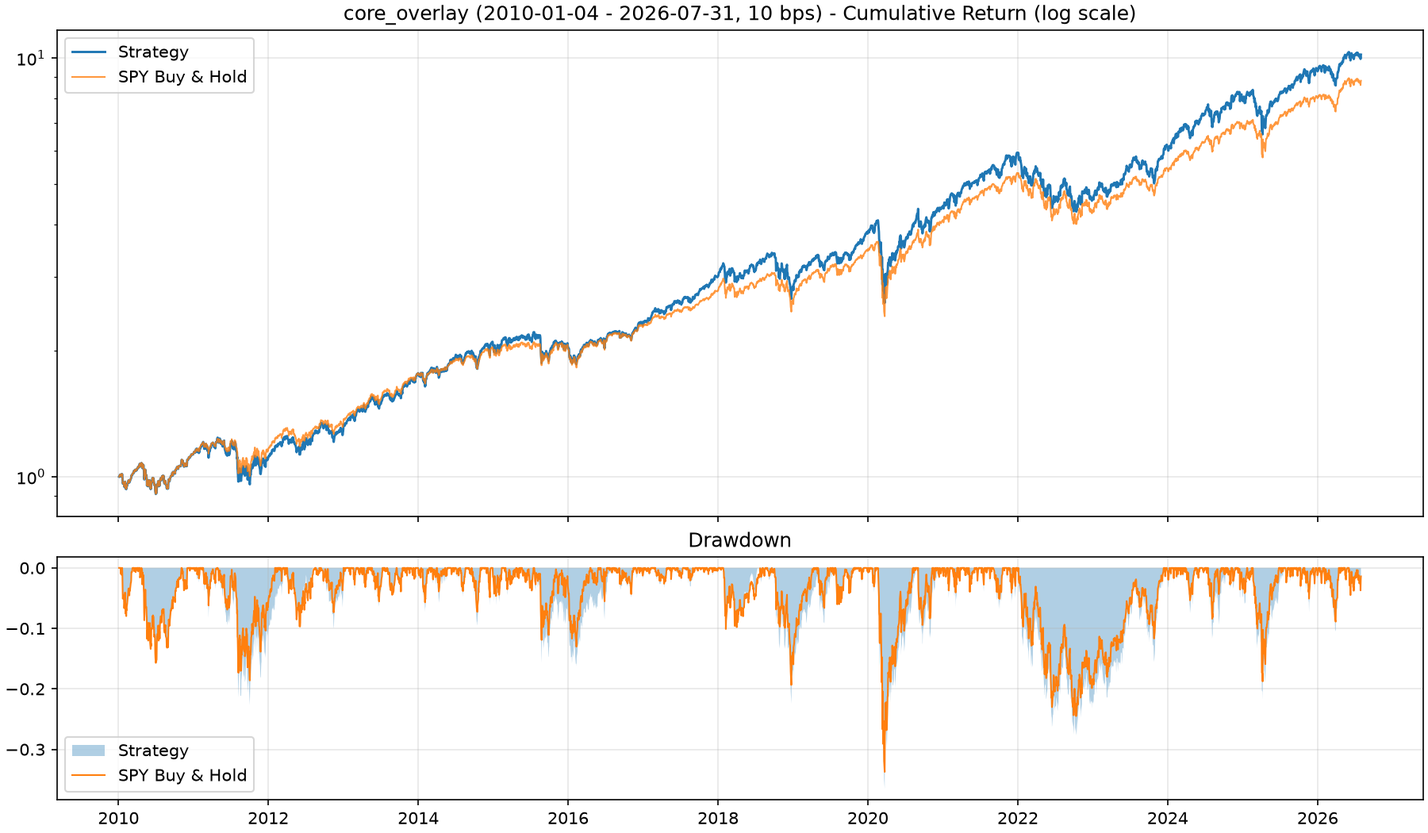
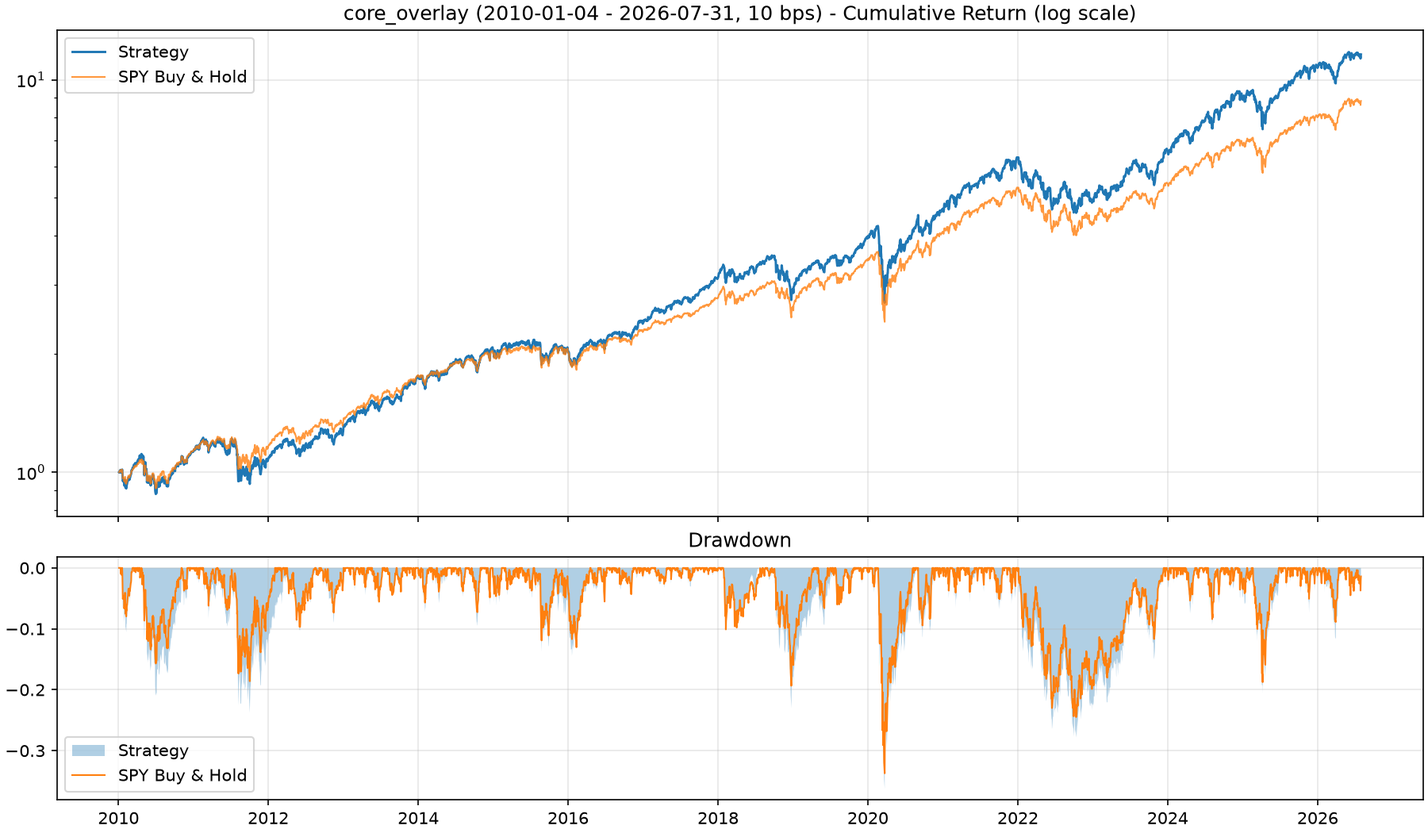
Warm up signals before the backtest window starts.

diff --git a/tests/test_warmup.py b/tests/test_warmup.py
@@ -1,0 +1,103 @@
+"""--start より前のデータをシグナルのウォームアップにだけ使い、損益と成績は --start 以降で計上することを確かめる。"""
+import numpy as np
+import pandas as pd
+import pytest
+
+import main
+from src.allocators.defensive_multi import DefensiveMultiAllocator
+
+LOAD_START = "2005-11-23"  # 2010-01-01 の 1,500 暦日前
+
+
+def slice_market(market, start_date, end_date=None):
+    """yfinance と同じく start_date 以降、end_date より前の行だけを返す。"""
+    prices, dollar_vol = market
+    keep = prices.index >= pd.Timestamp(start_date)
+    if end_date is not None:
+        keep &= prices.index < pd.Timestamp(end_date)
+    return prices.loc[keep], dollar_vol.loc[keep]
+
+
+@pytest.fixture
+def load_calls(backtest_cli, monkeypatch, market):
+    calls: list[dict] = []
+
+    def load(start_date=None, end_date=None):
+        calls.append({"start_date": start_date, "end_date": end_date})
+        return slice_market(market, start_date, end_date)
+
+    monkeypatch.setattr(main, "load_market_data", load)
+    return calls
+
+
+def read_output(out_dir, name: str) -> pd.DataFrame:
+    return pd.read_csv(out_dir / name, index_col=0, parse_dates=True)
+
+
+def test_data_is_loaded_1500_calendar_days_before_start(load_calls):
+    main.main(["backtest", "--strategy", "defensive_multi", "--start", "2010-01-01", "--end", "2016-01-01"])
+    assert load_calls == [{"start_date": LOAD_START, "end_date": "2016-01-01"}]
+
+
+def test_pnl_starts_at_start_with_warmed_up_weights(load_calls, backtest_cli, market):
+    main.main(["backtest", "--strategy", "defensive_multi", "--start", "2010-01-01"])
+    daily = read_output(backtest_cli, "defensive_multi_daily.csv")
+    weights = read_output(backtest_cli, "defensive_multi_weights.csv")
+
+    warm, _ = DefensiveMultiAllocator().generate_daily_weights(*slice_market(market, LOAD_START))
+    cold, _ = DefensiveMultiAllocator().generate_daily_weights(*slice_market(market, "2010-01-01"))
+
+    assert daily.index[0] == weights.index[0] == pd.Timestamp("2010-01-01")
+    pd.testing.assert_frame_equal(weights, warm.loc["2010-01-01":], check_freq=False, check_exact=False, rtol=1e-12)
+    # 冷えた状態から始めると初日は何も持てないが、ウォームアップ後は初日からリスク資産を持つ
+    assert cold.iloc[0].sum() == 0.0
+    assert weights.iloc[0].drop("BIL").sum() > 0.0
+    # 損益は初日の終値で建てたポジションから計上する
+    assert daily["port_ret"].iloc[0] == 0.0
+    assert daily["turnover"].iloc[1] == pytest.approx(weights.iloc[0].abs().sum())
+
+
+def test_metrics_cover_only_the_backtest_window(load_calls, backtest_cli, market):
+    main.main(["backtest", "--strategy", "core_overlay", "--start", "2012-01-01", "--end", "2015-01-01"])
+    metrics = pd.read_csv(backtest_cli / "core_overlay_metrics.csv", index_col=0)
+    days = len(slice_market(market, "2012-01-01", "2015-01-01")[0])
+    assert metrics.loc["Strategy", "Days"] == metrics.loc["SPY_BuyHold", "Days"] == days
+
+
+def test_inv_vol_ratio_is_warmed_up_on_the_first_day(load_calls, backtest_cli):
+    main.main(["backtest", "--strategy", "ensemble", "--ensemble-mode", "inv_vol", "--start", "2010-01-01"])
+    daily = read_output(backtest_cli, "ensemble_invvol63_daily.csv")
+    assert daily.index[0] == pd.Timestamp("2010-01-01")
+    assert daily["core_ratio"].iloc[0] != 0.5
+
+
+def test_default_window_prints_no_history_warning(load_calls, capsys):
+    main.main(["backtest", "--strategy", "defensive_multi"])
+    out = capsys.readouterr().out
+    assert "signals warmed up over the preceding" in out
+    assert "ウォームアップが" not in out and "価格が始まる銘柄" not in out
+
+
+def test_short_history_before_start_is_warned(load_calls, capsys):
+    main.main(["backtest", "--strategy", "defensive_multi", "--start", "2006-06-01"])
+    assert "ウォームアップが 1500 暦日に足りません" in capsys.readouterr().out
+
+
+def test_ticker_listed_after_start_is_warned(backtest_cli, monkeypatch, market, capsys):
+    prices, dollar_vol = market
+    prices = prices.copy()
+    prices.loc[:"2010-12-31", "BIL"] = np.nan
+    monkeypatch.setattr(main, "load_market_data", lambda start_date=None, end_date=None: (prices, dollar_vol))
+    main.main(["backtest", "--strategy", "defensive_multi", "--start", "2010-01-01"])
+    assert "評価開始日より後に価格が始まる銘柄があります: BIL (2011-01-03~)" in capsys.readouterr().out
+
+
+def test_start_after_the_last_date_stops(load_calls):
+    with pytest.raises(SystemExit, match="以降の価格データがありません"):
+        main.main(["backtest", "--strategy", "defensive_multi", "--start", "2030-01-01"])
+
+
+def test_unparseable_start_is_rejected(backtest_cli):
+    with pytest.raises(SystemExit) as exc:
+        main.main(["backtest", "--start", "2010-13-01"])
+    assert exc.value.code == 2

diff --git a/main.py b/main.py
@@ -22,6 +22,8 @@ ROOT = Path(__file__).resolve().parent
 OUTPUT_DIR = ROOT / "outputs"
 LOG_DIR = ROOT / "logs"
 DEFAULT_WEIGHTS_FILE = OUTPUT_DIR / "target_weights.json"
+# defensive_multi の12ヶ月リターンと36ヶ月Zスコア（計48ヶ月 ≒ 1,461暦日）が評価開始日までにそろう長さ
+WARMUP_CALENDAR_DAYS = 1500
 
 
 def run_label(args: argparse.Namespace) -> str:
@@ -47,9 +49,33 @@ def export_target_weights(strategy: str, weights: pd.DataFrame, params: dict, pa
     return payload
 
 
+def warn_short_history(prices: pd.DataFrame, load_start: pd.Timestamp, first_day: pd.Timestamp) -> None:
+    """ウォームアップ用のデータが足りない場合や、評価期間の途中から価格がある銘柄がある場合に注意を表示する。"""
+    if prices.index[0] > load_start + pd.Timedelta(days=7):
+        print(
+            f"  ※ データは {prices.index[0].date()} からしかなく、ウォームアップが {WARMUP_CALENDAR_DAYS} 暦日に足りません。"
+            "評価期間の初めはシグナルが未成熟です。"
+        )
+    late = {sym: d for sym, d in prices.apply(pd.Series.first_valid_index).items() if d > first_day}
+    if late:
+        listed = ", ".join(f"{sym} ({d.date()}~)" for sym, d in late.items())
+        print(f"  ※ 評価開始日より後に価格が始まる銘柄があります: {listed}。それまでのリターンは0として扱います。")
+
+
 def cmd_backtest(args: argparse.Namespace) -> None:
-    prices, dollar_vol = load_market_data(start_date=args.start, end_date=args.end)
+    # --start より前のデータはシグナルのウォームアップにだけ使い、損益と成績は --start 以降で計上する
+    eval_start = pd.Timestamp(args.start)
+    load_start = eval_start - pd.Timedelta(days=WARMUP_CALENDAR_DAYS)
+    prices, dollar_vol = load_market_data(start_date=load_start.strftime("%Y-%m-%d"), end_date=args.end)
+    window = prices.index[prices.index >= eval_start]
+    if window.empty:
+        sys.exit(f"[STOPPED] --start {args.start} 以降の価格データがありません。")
     print(f"Loaded {list(prices.columns)}: {prices.index[0].date()} -> {prices.index[-1].date()} ({len(prices)} days)")
+    print(
+        f"Backtest window: {window[0].date()} -> {window[-1].date()} ({len(window)} days), "
+        f"signals warmed up over the preceding {len(prices) - len(window)} days"
+    )
+    warn_short_history(prices, load_start, window[0])
 
     holdout = None
     params_note = ""
@@ -64,6 +90,7 @@ def cmd_backtest(args: argparse.Namespace) -> None:
                 patience=args.patience,
                 test_frac=args.test_frac,
                 seed=args.seed,
+                eval_start=window[0],
             )
             holdout = result.holdout
             print("\n=== Best Params (selected on TRAIN only) ===")
@@ -101,6 +128,10 @@ def cmd_backtest(args: argparse.Namespace) -> None:
 
     weights, crowd_series = allocator.generate_daily_weights(prices, dollar_vol)
     alpha_t = allocator.alpha_series_ if isinstance(allocator, EnsembleAllocator) else None
+
+    prices, weights, crowd_series = prices.loc[window[0]:], weights.loc[window[0]:], crowd_series.loc[window[0]:]
+    if alpha_t is not None:
+        alpha_t = alpha_t.loc[window[0]:]
     bt = run_backtest(prices, weights, cost_bps=args.cost_bps)
 
     overall = compute_metrics(bt["port_ret"], bt["spy_ret"], bt["turnover"])
@@ -214,7 +245,11 @@ def build_parser() -> argparse.ArgumentParser:
         default=None,
         help="ensemble inv_vol only: lookback days for each strategy's volatility (Default: 63)",
     )
-    p_bt.add_argument("--start", default="2010-01-01")
+    p_bt.add_argument(
+        "--start",
+        default="2010-01-01",
+        help=f"Backtest start date. Data from {WARMUP_CALENDAR_DAYS} calendar days earlier is used only to warm up signals",
+    )
     p_bt.add_argument("--end", default=None, help="End date (exclusive). Default: latest available")
     p_bt.add_argument("--cost-bps", type=float, default=10.0)
     p_bt.add_argument("--optimize", action="store_true", help="core_overlay only: capped random search on TRAIN, report TEST")
@@ -288,6 +323,10 @@ def main(argv: list[str] | None = None) -> None:
     parser = build_parser()
     args = parser.parse_args(argv)
     if args.command == "backtest":
+        try:
+            pd.Timestamp(args.start)
+        except ValueError:
+            parser.error(f"--start を日付として解釈できません: {args.start}")
         if args.optimize and args.strategy != "core_overlay":
             parser.error("--optimize は --strategy core_overlay のときだけ使えます")
         if args.force_optimized and not args.optimize:

diff --git a/src/backtest/optimize.py b/src/backtest/optimize.py
@@ -102,17 +102,20 @@ def random_search_core_overlay(
     test_frac: float = 0.20,
     seed: int = 42,
     progress_every_sec: float = 2.0,
+    eval_start: pd.Timestamp | None = None,
 ) -> SearchResult:
     """
-    先頭 (1 - test_frac) を選択期間として候補を評価し、末尾 test_frac は評価に使わない。
+    評価期間（eval_start 以降。未指定なら全期間）の先頭 (1 - test_frac) を選択期間として候補を評価し、
+    末尾 test_frac は評価に使わない。eval_start より前のデータはシグナルのウォームアップにだけ使う。
     シグナルはすべて因果的(ローリング・拡張窓・前日ウェイト)なので、全期間で一度だけ計算し
     選択期間の行だけを採点しても末尾期間の情報は混入しない。
     """
     crowd_score = compute_daily_crowding_score(prices, dollar_vol, CoreOverlayAllocator().tickers)
     thresholds = {q: crowd_score.expanding(min_periods=252).quantile(q) for q in SEARCH_SPACE["crowd_q"]}
 
-    split_date = prices.index[int(len(prices) * (1.0 - test_frac))]
-    in_train = prices.index < split_date
+    eval_prices = prices if eval_start is None else prices.loc[eval_start:]
+    split_date = eval_prices.index[int(len(eval_prices) * (1.0 - test_frac))]
+    in_train = eval_prices.index < split_date
 
     rng = np.random.default_rng(seed)
     n_total = min(n_candidates, math.prod(len(v) for v in SEARCH_SPACE.values()))
@@ -122,7 +125,7 @@ def random_search_core_overlay(
     no_improve = 0
     t0 = last = time.time()
 
-    print(f"\n=== RANDOM SEARCH (train: {prices.index[0].date()} -> {prices.index[in_train][-1].date()}) ===")
+    print(f"\n=== RANDOM SEARCH (train: {eval_prices.index[0].date()} -> {eval_prices.index[in_train][-1].date()}) ===")
     while len(seen) < n_total:
         draw = {k: rng.choice(v).item() for k, v in SEARCH_SPACE.items()}
         key = tuple(draw.values())
@@ -132,7 +135,7 @@ def random_search_core_overlay(
 
         params = CoreOverlayParams(**FIXED_PARAMS, **draw)
         weights = CoreOverlayAllocator(params).weights_from_crowding(prices, crowd_score, thresholds[params.crowd_q])
-        bt = run_backtest(prices, weights, cost_bps=cost_bps).loc[in_train]
+        bt = run_backtest(eval_prices, weights.loc[eval_prices.index[0]:], cost_bps=cost_bps).loc[in_train]
         score = selection_score(bt["port_ret"], bt["spy_ret"], bt["turnover"])
 
         if score > best_score:
@@ -153,5 +156,5 @@ def random_search_core_overlay(
     print(f"[DONE] {len(seen)} 候補を評価 ({time.time() - t0:.1f}s)  best_score={best_score:.4f}")
 
     best_weights = CoreOverlayAllocator(best).weights_from_crowding(prices, crowd_score, thresholds[best.crowd_q])
-    holdout = split_metrics(run_backtest(prices, best_weights, cost_bps=cost_bps), split_date)
+    holdout = split_metrics(run_backtest(eval_prices, best_weights.loc[eval_prices.index[0]:], cost_bps=cost_bps), split_date)
     return SearchResult(params=best, score=best_score, n_evaluated=len(seen), split_date=split_date, holdout=holdout)

diff --git a/tests/test_optimize.py b/tests/test_optimize.py
@@ -26,21 +26,28 @@ def test_turnover_penalty_is_annualized():
     assert selection_score(port, spy, quiet) - selection_score(port, spy, busy) == pytest.approx(0.20 * 0.02 * 252)
 
 
-@pytest.fixture(scope="module")
-def search(market):
+@pytest.fixture(scope="module", params=[None, "2010-01-01"], ids=["whole_data", "after_warmup"])
+def search(request, market):
     prices, dollar_vol = market
-    return random_search_core_overlay(prices, dollar_vol, n_candidates=6, patience=6, seed=0)
+    eval_start = None if request.param is None else pd.Timestamp(request.param)
+    return eval_start, random_search_core_overlay(
+        prices, dollar_vol, n_candidates=6, patience=6, seed=0, eval_start=eval_start
+    )
 
 
 def test_holdout_is_test_period_of_selected_params(market, search):
+    eval_start, result = search
     prices, dollar_vol = market
-    weights, _ = CoreOverlayAllocator(search.params).generate_daily_weights(prices, dollar_vol)
-    expected = split_metrics(run_backtest(prices, weights), search.split_date)
+    weights, _ = CoreOverlayAllocator(result.params).generate_daily_weights(prices, dollar_vol)
+    window = prices if eval_start is None else prices.loc[eval_start:]
+    expected = split_metrics(run_backtest(window, weights.loc[window.index[0]:]), result.split_date)
 
-    pd.testing.assert_frame_equal(search.holdout, expected)
-    assert search.holdout.loc["TEST_Optimized", "Days"] == (prices.index >= search.split_date).sum()
-    assert search.holdout_alpha == expected.loc["TEST_Optimized", "Alpha(%)"]
-    assert search.accepted == (search.holdout_alpha > 0)
+    pd.testing.assert_frame_equal(result.holdout, expected)
+    # 学習期間と検証期間はウォームアップ後の評価期間を 80:20 に分ける
+    assert result.split_date == window.index[int(len(window) * 0.8)]
+    assert result.holdout.loc[["TRAIN_Optimized", "TEST_Optimized"], "Days"].sum() == len(window)
+    assert result.holdout_alpha == expected.loc["TEST_Optimized", "Alpha(%)"]
+    assert result.accepted == (result.holdout_alpha > 0)
 
 
 def test_missing_holdout_is_not_accepted():

diff --git a/README.md b/README.md
@@ -85,7 +85,7 @@ SPY 100%を常時コアとして保有し、市場環境が良好な条件がそ
 * **IRゲート**：オーバーレイ単体の直近252日アクティブ情報比率（IR）がプラスのときだけ倍率 `k = 0.30` を掛けて有効化し、0以下のときはオーバーレイを停止する。
 * **リバランスと上限**：5営業日ごとにリバランスを行う。オーバーレイ単体のグロス上限は30%、ポートフォリオ全体のグロス上限は130%に制限している。
 
-`--optimize` オプションを付けると、データの先頭80%を使って上限付きランダムサーチ（最大200候補、60候補連続で改善がなければ早期終了）を実行し、末尾20%をホールドアウト期間として検証した結果を出力する。
+`--optimize` オプションを付けると、評価期間の先頭80%を使って上限付きランダムサーチ（最大200候補、60候補連続で改善がなければ早期終了）を実行し、末尾20%をホールドアウト期間として検証した結果を出力する。
 
 ### 戦略② `defensive_multi`
 
@@ -94,7 +94,7 @@ SPY 100%を常時コアとして保有し、市場環境が良好な条件がそ
 * **ベースウェイト**：12ヶ月リターン − 6ヶ月リターンの36ヶ月Zスコアが正の資産だけを残し、ボラティリティの逆数（逆ボラ）で重み付けして配分する（対象は SPY / QQQ / TLT / GLD）。
 * **3つの倍率による連続的な縮小**：目標ボラ10% ÷ 平均実現ボラ（上限1.5）、`exp(-0.7 × 相関Z)`、`exp(-0.6 × 非流動性Z)`の3つの倍率を掛け合わせてリスク資産の比重を調整する。
 * **BIL退避と上限キャップ**：縮小して余ったウェイトはBIL（短期国債ETF）へ配分する。過度なキャッシュ化による機会損失を防ぐため、BILが40%を超える月は超過分をリスク資産へ比例配分で戻している。
-* **フォールバック**：正のモメンタムを持つ資産が1つもない月やボラティリティ計算に必要なデータが不足している初期期間は、安全のためBIL 100%へ退避する。
+* **フォールバック**：正のモメンタムを持つ資産が1つもない月は、安全のためBIL 100%へ退避する。ボラティリティが計算できない月も同様だが、評価開始の1,500暦日前からデータを読むため、データがそろう開始日では評価の初日からこの状態にはならない。
 
 ### 2戦略のブレンド `ensemble`
 
@@ -106,7 +106,7 @@ $$
 
 * **固定比率（既定）**：`--strategy ensemble --core-ratio 0.7` のように戦略①の割合を 0.0〜1.0 で指定し、全期間を同じ比率で合成する（省略時は 0.5）。1.0 なら `core_overlay` 単体、0.0 なら `defensive_multi` 単体と完全に一致する。
 * **逆ボラ比率**：`--ensemble-mode inv_vol` または `--core-ratio auto` を付けると、両戦略の直近ボラティリティの逆数に比例して資金を配分するリスクパリティの比率を使う。計算方法は次の項で説明する。
-* **補完関係**：戦略①は高ベータの攻めの戦略、戦略②は低ベータでBILへ退避する守りの戦略で、日次リターンの相関は 0.35 にとどまる。上昇相場では戦略①がリターンを稼ぎ、ストレス局面では戦略②のBIL退避がクッションになる。
+* **補完関係**：戦略①は高ベータの攻めの戦略、戦略②は低ベータでBILへ退避する守りの戦略で、日次リターンの相関は 0.44 にとどまる。上昇相場では戦略①がリターンを稼ぎ、ストレス局面では戦略②のBIL退避がクッションになる。
 * **出力と執行との接続**：結果は固定比率なら `ensemble_core50`、逆ボラ比率なら `ensemble_invvol63` のように設定ごとの名前で保存するので、設定を変えても上書きされない。日次CSVの `core_ratio` 列には $\alpha_t$ の推移を残す。合成後のウェイトは単体戦略と同じく `target_weights.json` に書き出し、`ensemble_mode` と最新日の実効比率 `effective_core_ratio` も記録する（逆ボラ比率のときは `vol_window` なども記録する）。そのまま執行エンジンで発注できる。
 
 #### 逆ボラ比率の計算
@@ -128,10 +128,11 @@ $$
 
 ### 前提条件
 
+* シグナルは `--start` の1,500暦日前からのデータで計算し、ウォームアップが済んだ状態で評価を始める。1,500暦日は `defensive_multi` の12ヶ月リターンと36ヶ月Zスコアがそろう約4年分にあたる。損益と成績は `--start` 以降だけで計上する。データが1,500暦日に足りない場合と、評価開始より後に価格が始まる銘柄がある場合は実行時に注意を表示する。ウォームアップの途中から価格が始まる銘柄は注意の対象外で、その銘柄だけシグナルの立ち上がりが遅れる。
 * $t$ 日のウェイトは $t$ 日の終値までの情報だけで決定し、先読みを防ぐために $t+1$ 日のリターンへ適用している（`shift(1)`）。
 * 取引コストは、ウェイト変化の絶対値合計に `--cost-bps`（10bps）を掛けて日次リターンから控除。
 * 月次戦略（`defensive_multi`）は暦月末のラベルでシグナルを計算し、そのラベル日以降の最初の営業日からウェイトを適用する。当月の途中までのデータは使用しない。
-* レジーム別成績（`LOW_CROWD` / `HIGH_CROWD`）は、全期間の80%分位点で事後的に分割した参考値として出力している。
+* レジーム別成績（`LOW_CROWD` / `HIGH_CROWD`）は、評価期間全体の80%分位点で事後的に分割した参考値として出力している。
 * `ensemble` は2戦略の目標ウェイトを毎日合成する。固定比率では資金比率が常に一定に保たれ、逆ボラ比率では5営業日ごとに更新した $\alpha_t$ で配分し直す前提で評価している。比率の変更に伴う売買もコストとして控除している。
 
 ---
@@ -158,16 +159,16 @@ $$
 
 ## 参考成績とパフォーマンス推移
 
-同一条件（期間：2010-01-04〜2026-07-31、取引コスト：10bps、既定パラメータ）での比較結果を示している。`yfinance` の調整後終値はETFの分配金が出るたびに過去分も再計算されるため、実行日によって数値はわずかに変動する。`ensemble` の括弧内は `core_overlay` と `defensive_multi` の資金比率を表し、逆ボラ 63日 は63日窓の逆ボラ比率で合成した結果となる。
+同一条件（期間：2010-01-04〜2026-07-31、取引コスト：10bps、既定パラメータ）での比較結果を示している。シグナルは2005-11-23からのデータでウォームアップしてから評価している。`yfinance` の調整後終値はETFの分配金が出るたびに過去分も再計算されるため、実行日によって数値はわずかに変動する。`ensemble` の括弧内は `core_overlay` と `defensive_multi` の資金比率を表し、逆ボラ 63日 は63日窓の逆ボラ比率で合成した結果となる。
 
 | 戦略 / ベンチマーク | CAGR | Vol | Sharpe | MDD | Beta | Alpha |
 | --- | --- | --- | --- | --- | --- | --- |
-| **core_overlay** | 15.07% | 18.89% | 0.84 | -36.53% | 1.09 | -0.14% |
-| **ensemble (70:30)** | 13.11% | 14.25% | 0.94 | -26.91% | 0.81 | 1.52% |
-| **ensemble (50:50)** | 11.65% | 11.49% | 1.02 | -20.18% | 0.62 | 2.63% |
-| **ensemble (30:70)** | 10.06% | 9.30% | 1.08 | -16.76% | 0.43 | 3.74% |
-| **ensemble (逆ボラ 63日)** | 9.36% | 9.21% | 1.02 | -16.95% | 0.41 | 3.40% |
-| **defensive_multi** | 7.47% | 8.08% | 0.93 | -14.57% | 0.15 | 5.40% |
+| **core_overlay** | 15.97% | 19.14% | 0.87 | -36.27% | 1.10 | 0.50% |
+| **ensemble (70:30)** | 13.99% | 14.80% | 0.96 | -26.69% | 0.84 | 1.93% |
+| **ensemble (50:50)** | 12.51% | 12.26% | 1.02 | -20.01% | 0.66 | 2.88% |
+| **ensemble (30:70)** | 10.93% | 10.27% | 1.06 | -16.81% | 0.48 | 3.84% |
+| **ensemble (逆ボラ 63日)** | 10.65% | 10.31% | 1.03 | -17.10% | 0.48 | 3.56% |
+| **defensive_multi** | 8.35% | 9.07% | 0.93 | -14.57% | 0.22 | 5.26% |
 | **SPY (Buy & Hold)** | 14.07% | 17.10% | 0.86 | -33.72% | 1.00 | 0.00% |
 
 ![core_overlay の累積リターンとドローダウン（2010-01-04〜2026-07-31）](docs/core_overlay_performance.png)
@@ -176,13 +177,14 @@ $$
 
 ![ensemble（50:50）の累積リターンとドローダウン（2010-01-04〜2026-07-31）](docs/ensemble_core50_performance.png)
 
-* **`core_overlay` の特徴**：SPYを上回る累積リターンを記録しているが、その超過分は主にベータ（1.09）のレバレッジ効果によるもので、既定パラメータにおけるCAPMアルファはほぼゼロ（-0.14%）となっている。コロナショック（2020年）や2022年の下落局面でもSPYに近いドローダウンを受けている。
-* **`defensive_multi` の特徴**：実現ボラティリティを年率換算してから目標ボラティリティ10%と比較しているため、ボラティリティ倍率の中央値は約0.7、BILの保有比率の中央値は40%になっている。上昇相場での追随率は抑えられるが、2008年のリーマンショック、2020年のコロナショック、2022年の株債同時安のいずれにおいてもドローダウンを抑え、シャープレシオ 0.93 とアルファ +5.40% を出している。リスク水準を引き上げたい場合は `DefensiveMultiAllocator(target_vol=...)` の値を調整する。
-* **`ensemble` の特徴**：50:50 のシャープレシオは 1.02 で、`core_overlay`（0.84）と `defensive_multi`（0.93）のどちらの単体も上回る。最大ドローダウンは -20.18% と `core_overlay` 単体のほぼ半分で、2020年のコロナショックでも `core_overlay` 単体の -36.5% に対して -20.2% にとどまった。一方でCAGRは 11.65% とSPYの 14.07% を下回るため、優れているのはリスク当たりのリターンであって絶対リターンではない。
-* **逆ボラ比率の特徴**：$\alpha_t$ は平均 0.32（最小 0.12、最大 0.55）で、平均すると 30:70 に近い配分になる。ただしCAGR 9.36% とシャープレシオ 1.02 はどちらも 30:70（10.06%、1.08）を下回り、年率回転率も 4.74 と 30:70 の 4.00 より高い。差の理由は2つある。1つはボラティリティが跳ね上がった直後に `core_overlay` の比率を下げるため急落後の反発局面で配分が細りやすいことで、SPYが高値から10%以上下落している日の $\alpha_t$ は平均 0.23 にとどまる。2020年3月23日から8月31日の反発局面では 30:70 の +26.2% に対して +23.7% だった。もう1つは2012年6月まで `defensive_multi` がBIL 100%で待機していてボラティリティが下限の5%に張り付くことで、この期間の $\alpha_t$ は平均 0.24 まで下がる。シグナルを2005年から計算して待機期間の影響を除くと 30:70 とのCAGRの差は 0.70 ポイントから 0.36 ポイントに縮むが、下回る傾向は変わらない。
+* **`core_overlay` の特徴**：SPYを上回る累積リターンを記録しているが、その超過分は主にベータ（1.10）のレバレッジ効果によるもので、既定パラメータにおけるCAPMアルファは +0.50% にとどまる。コロナショック（2020年）や2022年の下落局面でもSPYに近いドローダウンを受けている。
+* **`defensive_multi` の特徴**：実現ボラティリティを年率換算してから目標ボラティリティ10%と比較しているため、ボラティリティ倍率の中央値は約0.7、BILの保有比率の中央値は40%になっている。上昇相場での追随率は抑えられるが、2008年のリーマンショック、2020年のコロナショック、2022年の株債同時安のいずれにおいてもドローダウンを抑え、シャープレシオ 0.93 とアルファ +5.26% を出している。リスク水準を引き上げたい場合は `DefensiveMultiAllocator(target_vol=...)` の値を調整する。
+* **`ensemble` の特徴**：50:50 のシャープレシオは 1.02 で、`core_overlay`（0.87）と `defensive_multi`（0.93）のどちらの単体も上回る。最大ドローダウンは -20.01% と `core_overlay` 単体のほぼ半分で、2020年のコロナショックでも `core_overlay` 単体の -36.3% に対して -20.0% にとどまった。一方でCAGRは 12.51% とSPYの 14.07% を下回るため、優れているのはリスク当たりのリターンであって絶対リターンではない。
+* **逆ボラ比率の特徴**：$\alpha_t$ は平均 0.33（最小 0.17、最大 0.55）で、平均すると 30:70 に近い配分になる。ただしCAGR 10.65% とシャープレシオ 1.03 はどちらも 30:70（10.93%、1.06）をわずかに下回り、年率回転率も 4.94 と 30:70 の 4.39 より高い。差が生じやすい局面は2つある。1つは急落後の反発局面で、ボラティリティが跳ね上がった直後に `core_overlay` の比率を下げるため配分が細りやすい。SPYが高値から10%以上下落している日の $\alpha_t$ は平均 0.26 にとどまり、2020年3月23日から8月31日の反発局面では 30:70 の +24.5% に対して +21.4% だった。もう1つは `defensive_multi` が正のモメンタムを失ってBIL 100%に退避している局面で、ボラティリティが下限の5%まで下がるため $\alpha_t$ も下がる。2022年10月末から2023年7月末には $\alpha_t$ が平均 0.20 まで下がり、30:70 の +9.9% に対して +7.8% だった。
 
 ---
 
 ## 注意事項
 
 * ペーパー発注で使用する成行注文には実市場でのスリッページやスプレッドコストが発生するため、バックテストの前提とは約定価格が一致しない場合がある。
+* `defensive_multi` のチャートだけは2008年のリーマンショックを含めるため2005-01-03から描いている。BILは2007-05-30の上場まで価格がないので、それ以前にBILへ配分した分はリターン0として描かれる。上場までのBIL比率は平均56%で、2006年から2007年にかけて横ばいに見える区間は実際の短期国債より低くなっている。GLDは2004-11-18の上場で、2005年開始の時点では12ヶ月リターンと36ヶ月Zスコアが揃っていない。2010年開始の比較表はどちらも上場から4年以上経ったあとなので、この影響を受けない。
